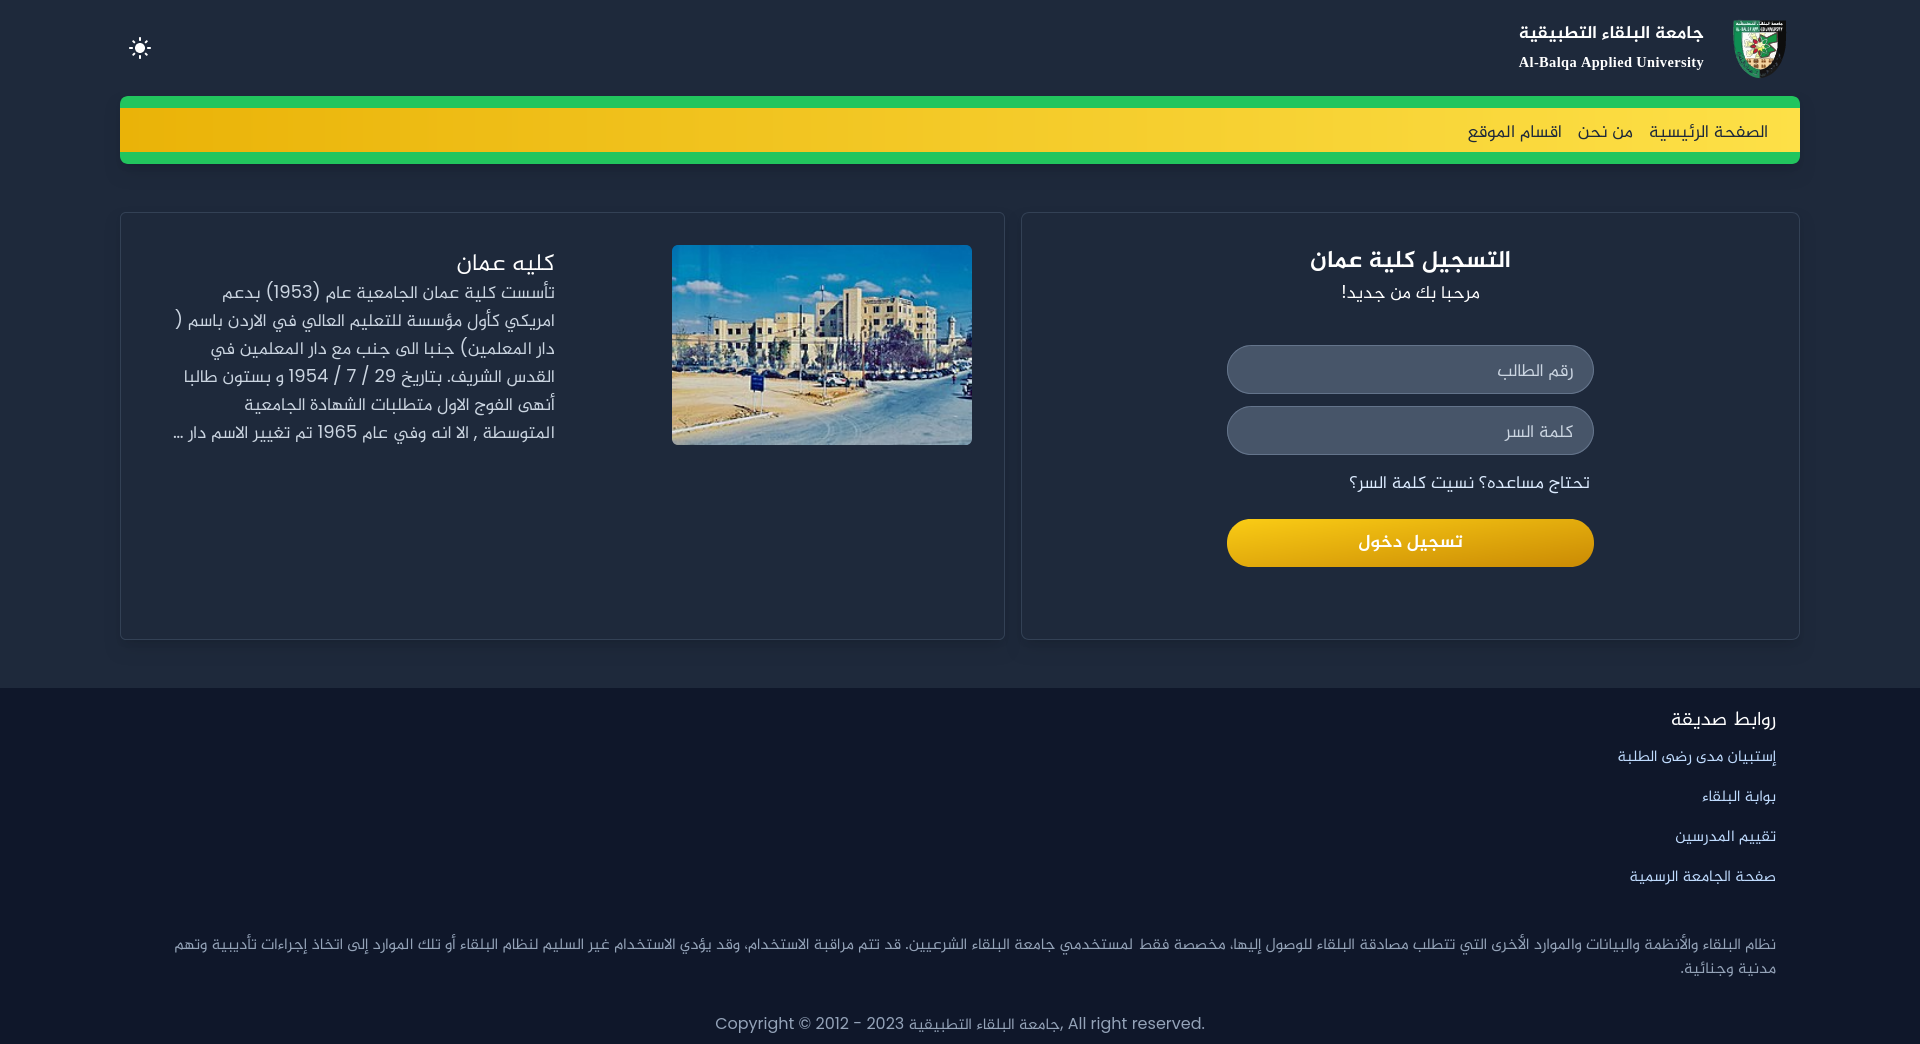
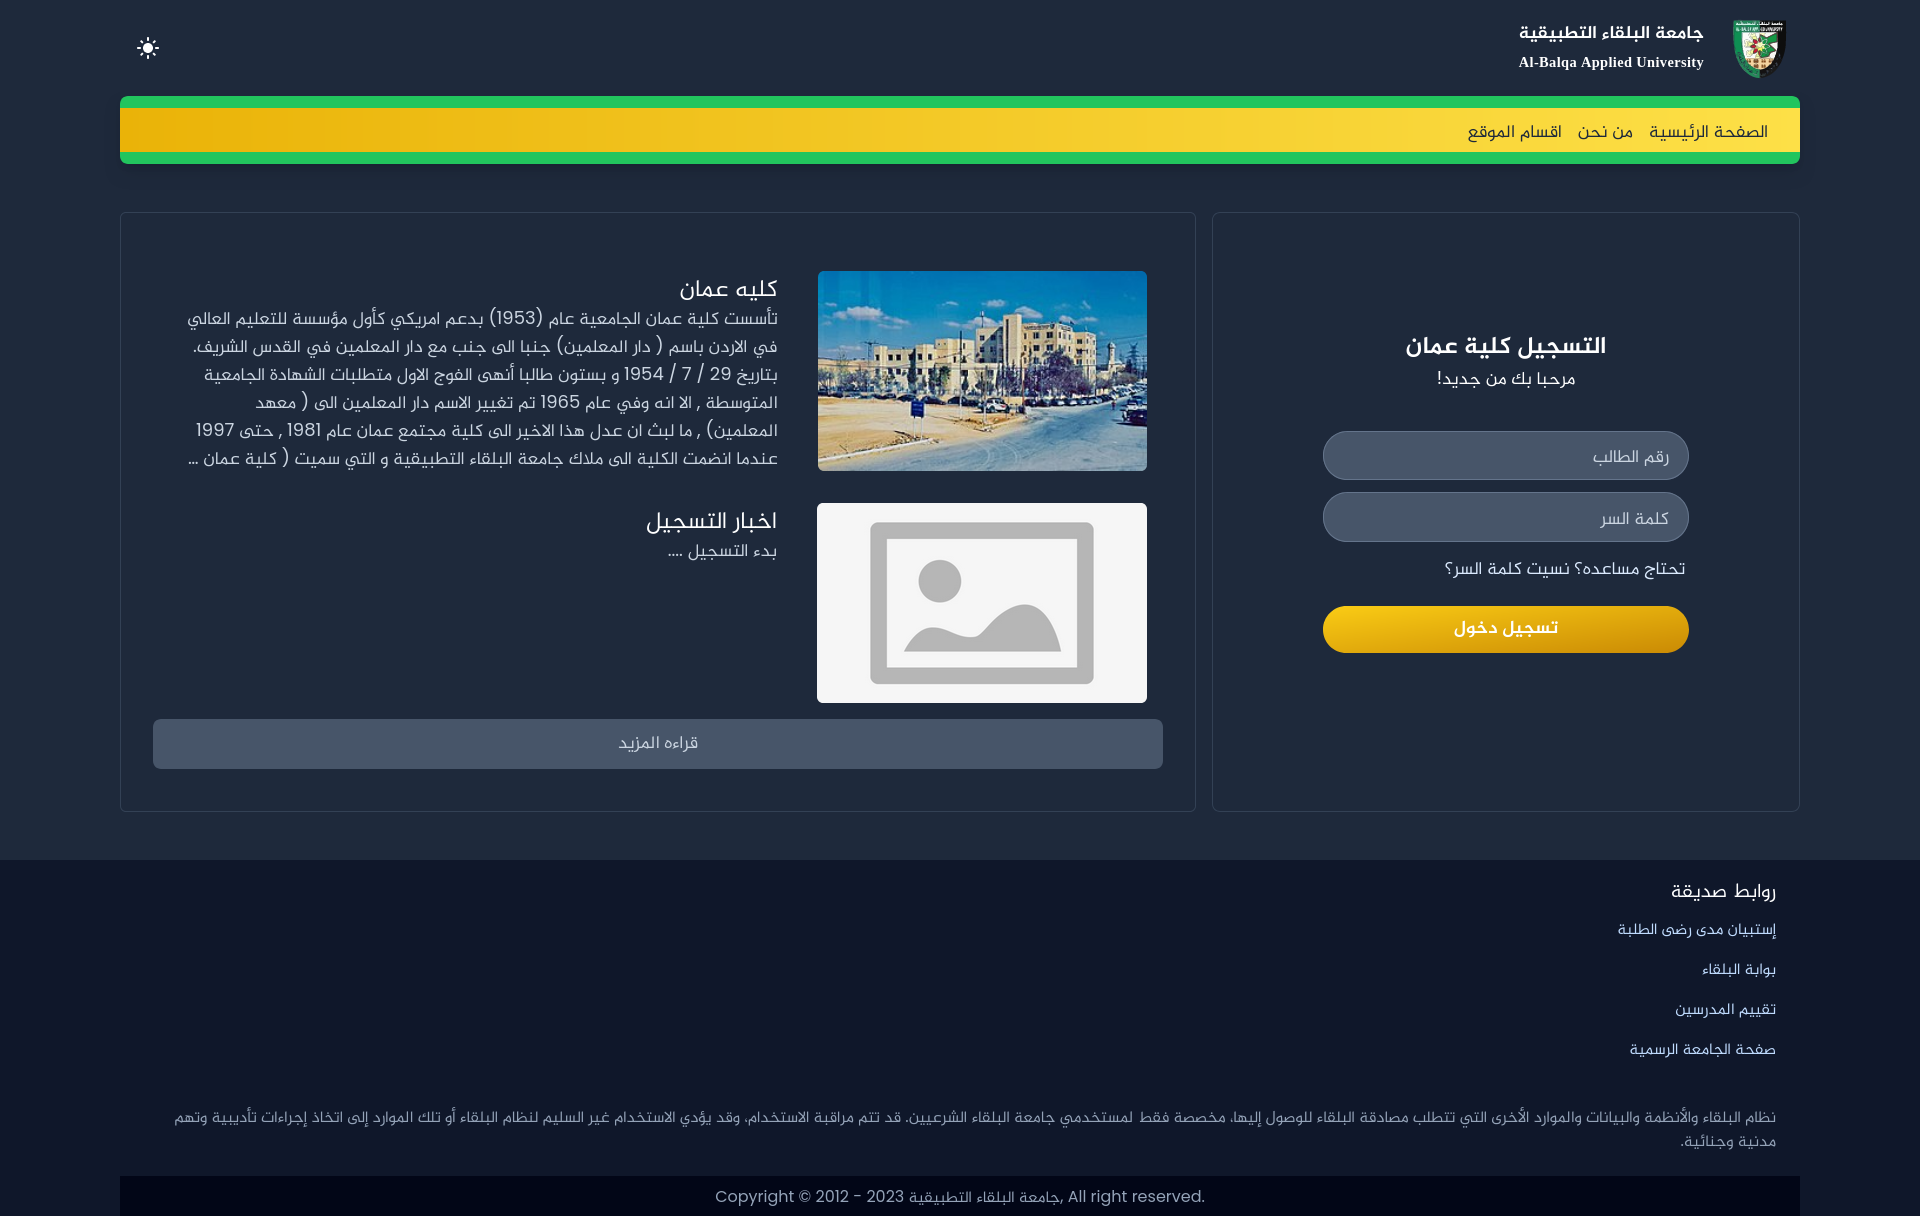
Update & Deploy

diff --git a/client/src/pages/Login.jsx b/client/src/pages/Login.jsx
@@ -2,19 +2,33 @@ import Form from "../components/LoginForm";
 
 const Login = () => {
   return (
-    <div className=" py-8 flex max-[1000px]:flex-col max-w-[1680px] mx-auto w-full max-[1000px]:h-full xl:w-fit max-[1000px]:justify-center">
+    <div className=" py-8 flex max-[1000px]:flex-col max-w-[1680px] mx-auto w-full max-[1000px]:h-full xl:w-fit max-[1000px]:justify-center flex-col xl:flex-row">
       <Form />
-      <div className="xl:border border-slate-200 dark:border-slate-700 w-screen rounded-md dark:text-white xl:p-8 flex max-[1000px]:flex-col xl:shadow-lg">
-        <div className="w-full max-[1000px]:hidden">
-          <img className="flex justify-center items-center w-[300px] h-[200px] object-cover rounded-md" src="https://upload.wikimedia.org/wikipedia/commons/thumb/e/e4/%D9%83%D9%84%D9%8A%D8%A9_%D8%B9%D9%85%D8%A7%D9%86_%D8%A7%D9%84%D8%AC%D8%A7%D9%85%D8%B9%D9%8A%D8%A9.jpg/280px-%D9%83%D9%84%D9%8A%D8%A9_%D8%B9%D9%85%D8%A7%D9%86_%D8%A7%D9%84%D8%AC%D8%A7%D9%85%D8%B9%D9%8A%D8%A9.jpg" alt="Balqa" />
+      <div className="justify-center xl:border border-slate-200 dark:border-slate-700 w-full rounded-md dark:text-white xl:p-8 flex flex-col max-[1000px]:flex-col xl:shadow-none">
+        <div className="flex m-4">
+          <img className="xl:ml-6 flex justify-center items-center w-0  xl:w-[400px] h-0 xl:h-[200px] object-cover rounded-md" src="https://upload.wikimedia.org/wikipedia/commons/thumb/e/e4/%D9%83%D9%84%D9%8A%D8%A9_%D8%B9%D9%85%D8%A7%D9%86_%D8%A7%D9%84%D8%AC%D8%A7%D9%85%D8%B9%D9%8A%D8%A9.jpg/280px-%D9%83%D9%84%D9%8A%D8%A9_%D8%B9%D9%85%D8%A7%D9%86_%D8%A7%D9%84%D8%AC%D8%A7%D9%85%D8%B9%D9%8A%D8%A9.jpg" alt="Balqa" width={400} height={200} />
+          <div className="w-full px-4" >
+            <h1 className="text-2xl">كليه عمان</h1>
+            <p className="text-lg dark:text-slate-300 text-slate-600 truncate line-clamp-3 xl:line-clamp-6 whitespace-pre-wrap ">
+              تأسست كلية عمان الجامعية عام (1953) بدعم امريكي كأول مؤسسة للتعليم العالي في الاردن باسم ( دار المعلمين) جنبا الى جنب مع دار المعلمين في القدس الشريف. بتاريخ 29 / 7 / 1954 و بستون طالبا أنهى الفوج الاول متطلبات الشهادة الجامعية المتوسطة , الا انه وفي عام 1965 تم تغيير الاسم دار المعلمين الى ( معهد المعلمين) , ما لبث ان عدل هذا الاخير الى كلية مجتمع عمان عام 1981 , حتى 1997 عندما انضمت الكلية الى ملاك جامعة البلقاء التطبيقية و التي سميت ( كلية عمان الجامعية للعلوم المالية والإدارية ) .
+              كلية عمان الجامعية مؤسسة تعليمية بحثية، تسعى لتطوير ونشر المعرفة في مجالات العلوم المحاسبية والادارية المختلفة، وتنمية قدراتها الذاتية لتحقيق مركز متقدم بين كليات الجامعات الاردنية والعربية والعالمية، وتساهم مع مؤسسات المجتمع في التنمية الاقتصادية والاجتماعية وتحافظ على الموروثات الفكرية والحضارية للشعب الاردني، وتدعم حقوق الإنسان وتحافظ على البيئة، ملتزمة بالقيم الروحية والأخلاقية والمهنية
+            </p>
+          </div>
         </div>
-        <div className="w-full px-4" >
-          <h3 className="text-2xl">كليه عمان</h3>
-          <p className="text-lg dark:text-slate-300 text-slate-600 truncate line-clamp-3 xl:line-clamp-6 whitespace-pre-wrap ">
-            تأسست كلية عمان الجامعية عام (1953) بدعم امريكي كأول مؤسسة للتعليم العالي في الاردن باسم ( دار المعلمين) جنبا الى جنب مع دار المعلمين في القدس الشريف. بتاريخ 29 / 7 / 1954 و بستون طالبا أنهى الفوج الاول متطلبات الشهادة الجامعية المتوسطة , الا انه وفي عام 1965 تم تغيير الاسم دار المعلمين الى ( معهد المعلمين) , ما لبث ان عدل هذا الاخير الى كلية مجتمع عمان عام 1981 , حتى 1997 عندما انضمت الكلية الى ملاك جامعة البلقاء التطبيقية و التي سميت ( كلية عمان الجامعية للعلوم المالية والإدارية ) .
-            كلية عمان الجامعية مؤسسة تعليمية بحثية، تسعى لتطوير ونشر المعرفة في مجالات العلوم المحاسبية والادارية المختلفة، وتنمية قدراتها الذاتية لتحقيق مركز متقدم بين كليات الجامعات الاردنية والعربية والعالمية، وتساهم مع مؤسسات المجتمع في التنمية الاقتصادية والاجتماعية وتحافظ على الموروثات الفكرية والحضارية للشعب الاردني، وتدعم حقوق الإنسان وتحافظ على البيئة، ملتزمة بالقيم الروحية والأخلاقية والمهنية
-          </p>
+        <div className="flex m-4">
+          <img className="xl:ml-6 flex justify-center items-center w-0 xl:w-[330px] h-0 xl:h-[200px] object-cover rounded-md" src="https://www.pngkey.com/png/detail/233-2332677_ega-png.png" alt="Balqa" width={400} height={200} />
+          <div className="w-full px-4" >
+            <h1 className="text-2xl">اخبار التسجيل</h1>
+            <p className="text-lg dark:text-slate-300 text-slate-600 truncate line-clamp-3 xl:line-clamp-6 whitespace-pre-wrap ">
+              بدء التسجيل ....
+            </p>
+          </div>
         </div>
+        <a href="/#" className="py-2 self-center text-center text-lg w-[90%] xl:w-full min-h-[50px] dark:bg-slate-600 dark:hover:bg-slate-700 dark:active:bg-slate-800 bg-slate-100 hover:bg-slate-200 active:bg-slate-300 backdrop-blur-lg rounded-lg cursor-pointer">
+          <span className="text-slate-900 dark:text-slate-300">
+            قراءه المزيد
+          </span>
+        </a>
       </div>
     </div>
   )

diff --git a/client/src/components/TopMenu.jsx b/client/src/components/TopMenu.jsx
@@ -41,9 +41,9 @@ const TopMenu = () => {
       <div className="z-10 max-w-[1680px] mx-auto dark:bg-slate-800 bg-white bg-opacity-80 xl:drop-shadow-none backdrop-blur flex justify-between px-4 max-[386px]:px-2 xl:px-0 xl:py-2 items-center w-full min-h-[50px]  select-none">
         <a className="flex justify-center items-center cursor-pointer dark:text-white text-slate-800 hover:text-slate-900">
           <img className="w-20 max-[410px]:w-14 self-start p-2" src={Logo} alt="logo" />
-          <h1 className="flex flex-col font-bold max-[410px]:px-2 max-[410px]:text-sm text-lg px-4 font-['AlJazeeraFontBold']">جامعة البلقاء التطبيقية<span className="text-[.8em] font-serif tracking-wide">Al-Balqa Applied University</span></h1>
+          <h1 className="flex flex-col font-bold max-[410px]:px-2 max-[510px]:text-sm text-lg px-4 font-['AlJazeeraFontBold']">جامعة البلقاء التطبيقية<span className="text-[.8em] font-serif tracking-wide">Al-Balqa Applied University</span></h1>
         </a>
-        <div className="flex">
+        <div className="flex mx-2">
           <button className="hover:bg-slate-200 dark:hover:bg-slate-700 p-2 rounded-full max-[400px]:text-xl text-2xl dark:text-white text-slate-600" onClick={handleDayNightMode}>
             {localStorage.theme === "light" ? <MdDarkMode /> : <MdLightMode />}
           </button>
@@ -53,7 +53,7 @@ const TopMenu = () => {
         </div>
       </div>
       <nav
-        className={`max-w-[1680px] mx-auto w-full xl:opacity-100 xl:top-0 xl:relative xl:scale-y-100 transition-all duration-500 ease-in-out ${clicked ? 'opacity-100 relative top-0' : 'opacity-30 absolute scale-y-0 top-[-100%] right-0 left-0'
+        className={`max-w-[1680px] mx-auto w-full xl:opacity-100 xl:top-0 xl:relative xl:scale-y-100 transition-all duration-500 ease-in-out xl:visible ${clicked ? 'opacity-100 relative top-0 visible' : 'collapse opacity-30 absolute scale-y-0 top-[-100%] right-0 left-0'
           } 2xl:rounded-lg bg-green-500 py-3 px-0 min-h-[50px] xl:shadow-lg`}
       >
         <ul dir="rtl" className="xl:flex justify-start w-full xl:px-6 items-center from-yellow-500 to-yellow-300 backdrop-blur-lg bg-gradient-to-r min-h-[40px]">

diff --git a/client/src/components/Button.jsx b/client/src/components/Button.jsx
@@ -3,9 +3,11 @@ import { Link } from "react-router-dom";
 
 const Button = (props) => {
   return (
-    <button className={`${props.class === "" ? props.class : "max-[400px]:text-base text-lg px-[1.2rem] py-[.6rem] from-yellow-400 to-yellow-600 bg-gradient-to-br rounded-full my-2 text-white font-bold font-['AlJazeeraFontBold'] hover:from-yellow-500 hover:to-yellow-600 active:from-yellow-600 active:to-yellow-700 focus:from-yellow-500 focus:to-yellow-600 " }`} type={props.type}>
-      <Link className="text-white hover:text-slate-50 active:text-slate-50" to={props.link}>{props.title}</Link>
-    </button>
+    <Link className="w-full text-white hover:text-slate-50 active:text-slate-50 px-[1.2rem] py-[.6rem] from-yellow-400 to-yellow-600 bg-gradient-to-br rounded-full my-2 hover:from-yellow-500 hover:to-yellow-600 active:from-yellow-600 active:to-yellow-700 focus:from-yellow-500 focus:to-yellow-600 text-center" to={props.link}>
+      <button className={`${props.class === "" ? props.class : "max-[400px]:text-base text-lg  text-white font-bold font-['AlJazeeraFontBold'] "}`} type={props.type}>
+        {props.title}
+      </button>
+    </Link>
   )
 }
 

diff --git a/client/src/components/Footer.jsx b/client/src/components/Footer.jsx
@@ -21,7 +21,7 @@ const Footer = () => {
           نظام البلقاء والأنظمة والبيانات والموارد الأخرى التي تتطلب مصادقة البلقاء للوصول إليها، مخصصة فقط لمستخدمي جامعة البلقاء الشرعيين. قد تتم مراقبة الاستخدام، وقد يؤدي الاستخدام غير السليم لنظام البلقاء أو تلك الموارد إلى اتخاذ إجراءات تأديبية وتهم مدنية وجنائية.
         </p>
       </div>
-      <div className="self-center p-2 text-center  w-full min-h-[35px] dark:bg-slate-900 bg-slate-100">
+      <div className="self-center p-2 text-center  w-full min-h-[35px] dark:bg-slate-950 bg-slate-100">
         <p dir="ltr" className="dark:text-slate-400 text-slate-800 max-[400px]:text-sm">Copyright © 2012 - {new Date().getFullYear()} جامعة البلقاء التطبيقية, All right reserved.</p>
       </div>
     </div>

diff --git a/client/src/components/LoginForm.jsx b/client/src/components/LoginForm.jsx
@@ -2,7 +2,7 @@ import Button from "./Button";
 
 const Form = () => {
   return (
-    <section className="max-w-[1680px] mx-auto w-full xl:rounded-lg xl:p-8 xl:ml-4 xl:shadow-lg xl:border dark:border-slate-700 border-slate-200 flex flex-col min-[1000px]:justify-center items-center max-[480px]:items-stretch max-[480px]:text-center">
+    <section className="mx-auto w-full xl:w-[900px] h-full min-h-[70vh] xl:min-h-full justify-center xl:h-[600px] xl:rounded-lg xl:p-8 xl:ml-4 xl:shadow-none xl:border dark:border-slate-700 border-slate-200 flex flex-col min-[1000px]:justify-center items-center max-[480px]:items-stretch max-[480px]:text-center">
       <h3 className="dark:text-white max-[400px]:text-xl text-2xl font-['AlJazeeraFontBold']">التسجيل كلية عمان</h3>
       <p className="dark:text-white max-[400px]:text-base text-lg">مرحبا بك من جديد!</p>
       <form className="flex flex-col p-8" action="/" method="post">

diff --git a/client/src/App.jsx b/client/src/App.jsx
@@ -11,13 +11,13 @@ function App() {
   return (
     <>
       <Alert />
-      <header className="dark:bg-slate-800 flex flex-col justify-center">
+      <header className="dark:bg-slate-800 bg-white flex flex-col justify-center">
         <TopMenu />
       </header>
 
-      <main className="overflow-hidden flex flex-col xl:justify-normal xl:p-4 xl:items-start justify-center items-center h-full dark:bg-slate-800">
+      <main className="overflow-hidden flex flex-col xl:justify-normal xl:p-4 xl:items-start justify-center items-center h-full dark:bg-slate-800 bg-white  ">
         <Routes>
-          <Route path="/login" element={<Login />} />
+          <Route path="/" element={<Login />} />
           <Route path="*" element={<NotFound />} />
         </Routes>
       </main>

diff --git a/client/vite.config.js b/client/vite.config.js
@@ -4,7 +4,7 @@ import eslint from 'vite-plugin-eslint';
 
 // https://vitejs.dev/config/
 export default defineConfig({
-  base: '/login',
+  base: '/al-balqa-applied-university-register/',
     plugins: [eslint(), react()],
     server: {    
         // this ensures that the browser opens upon server start
